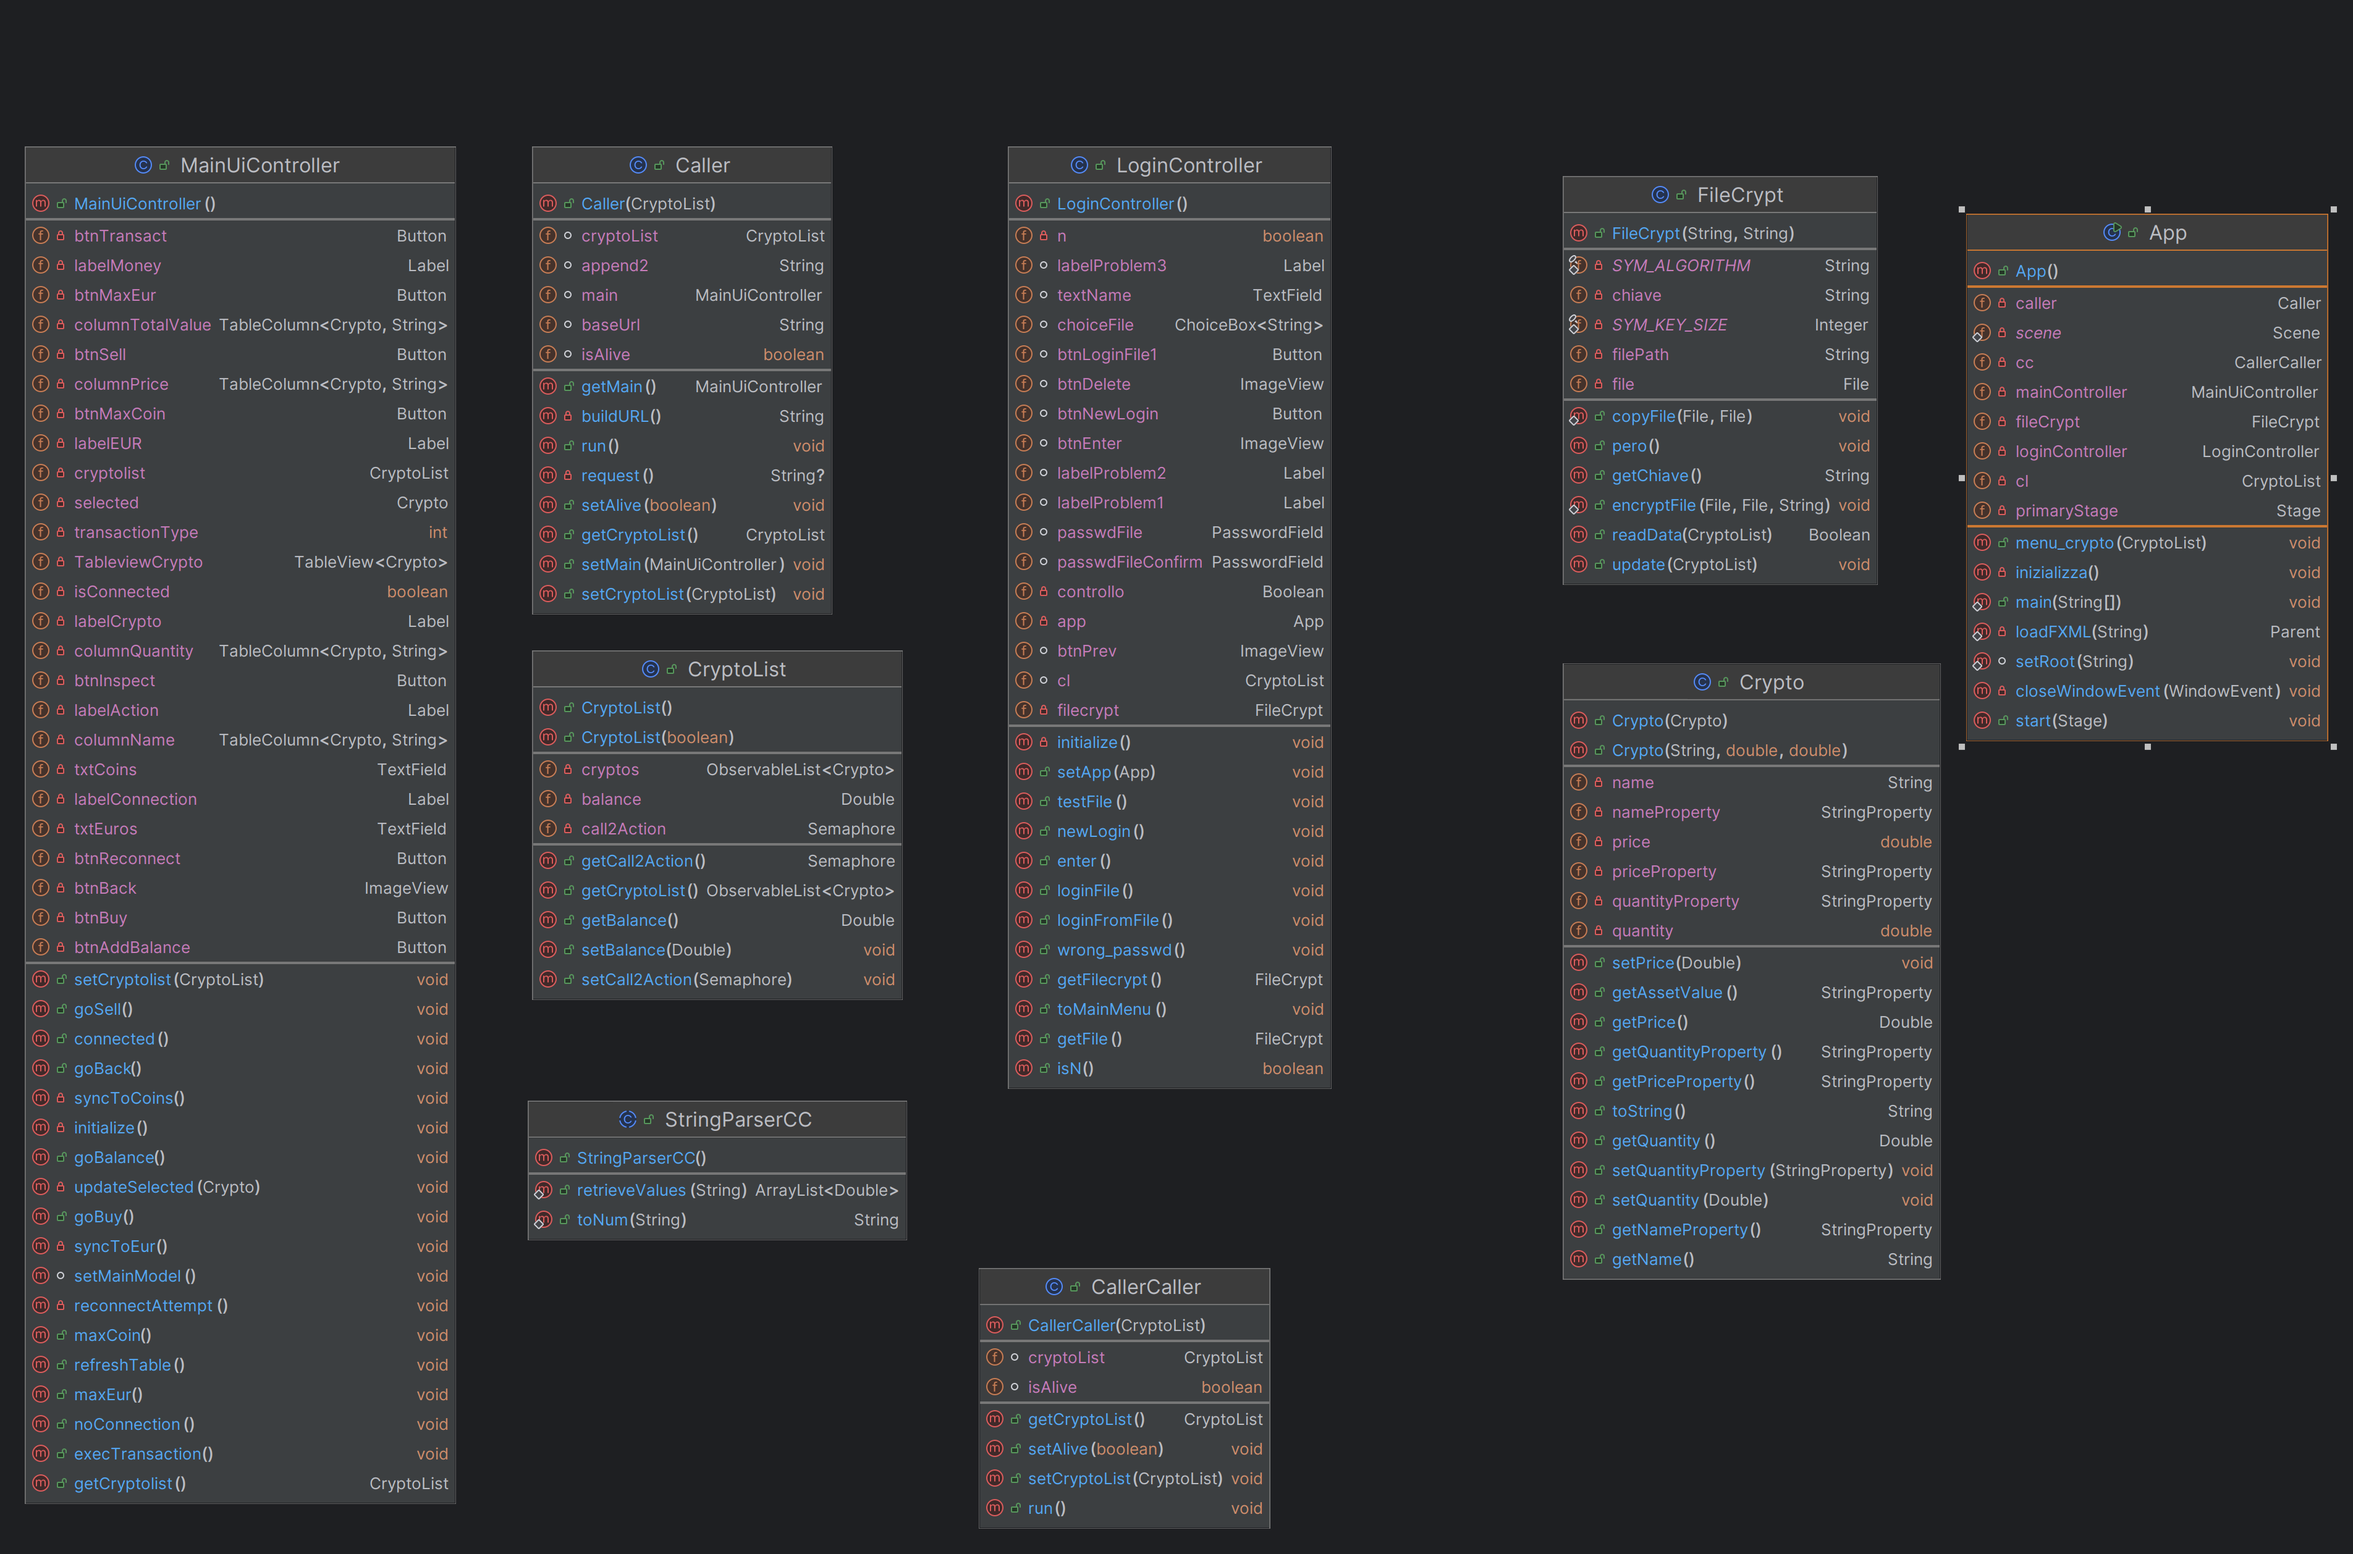
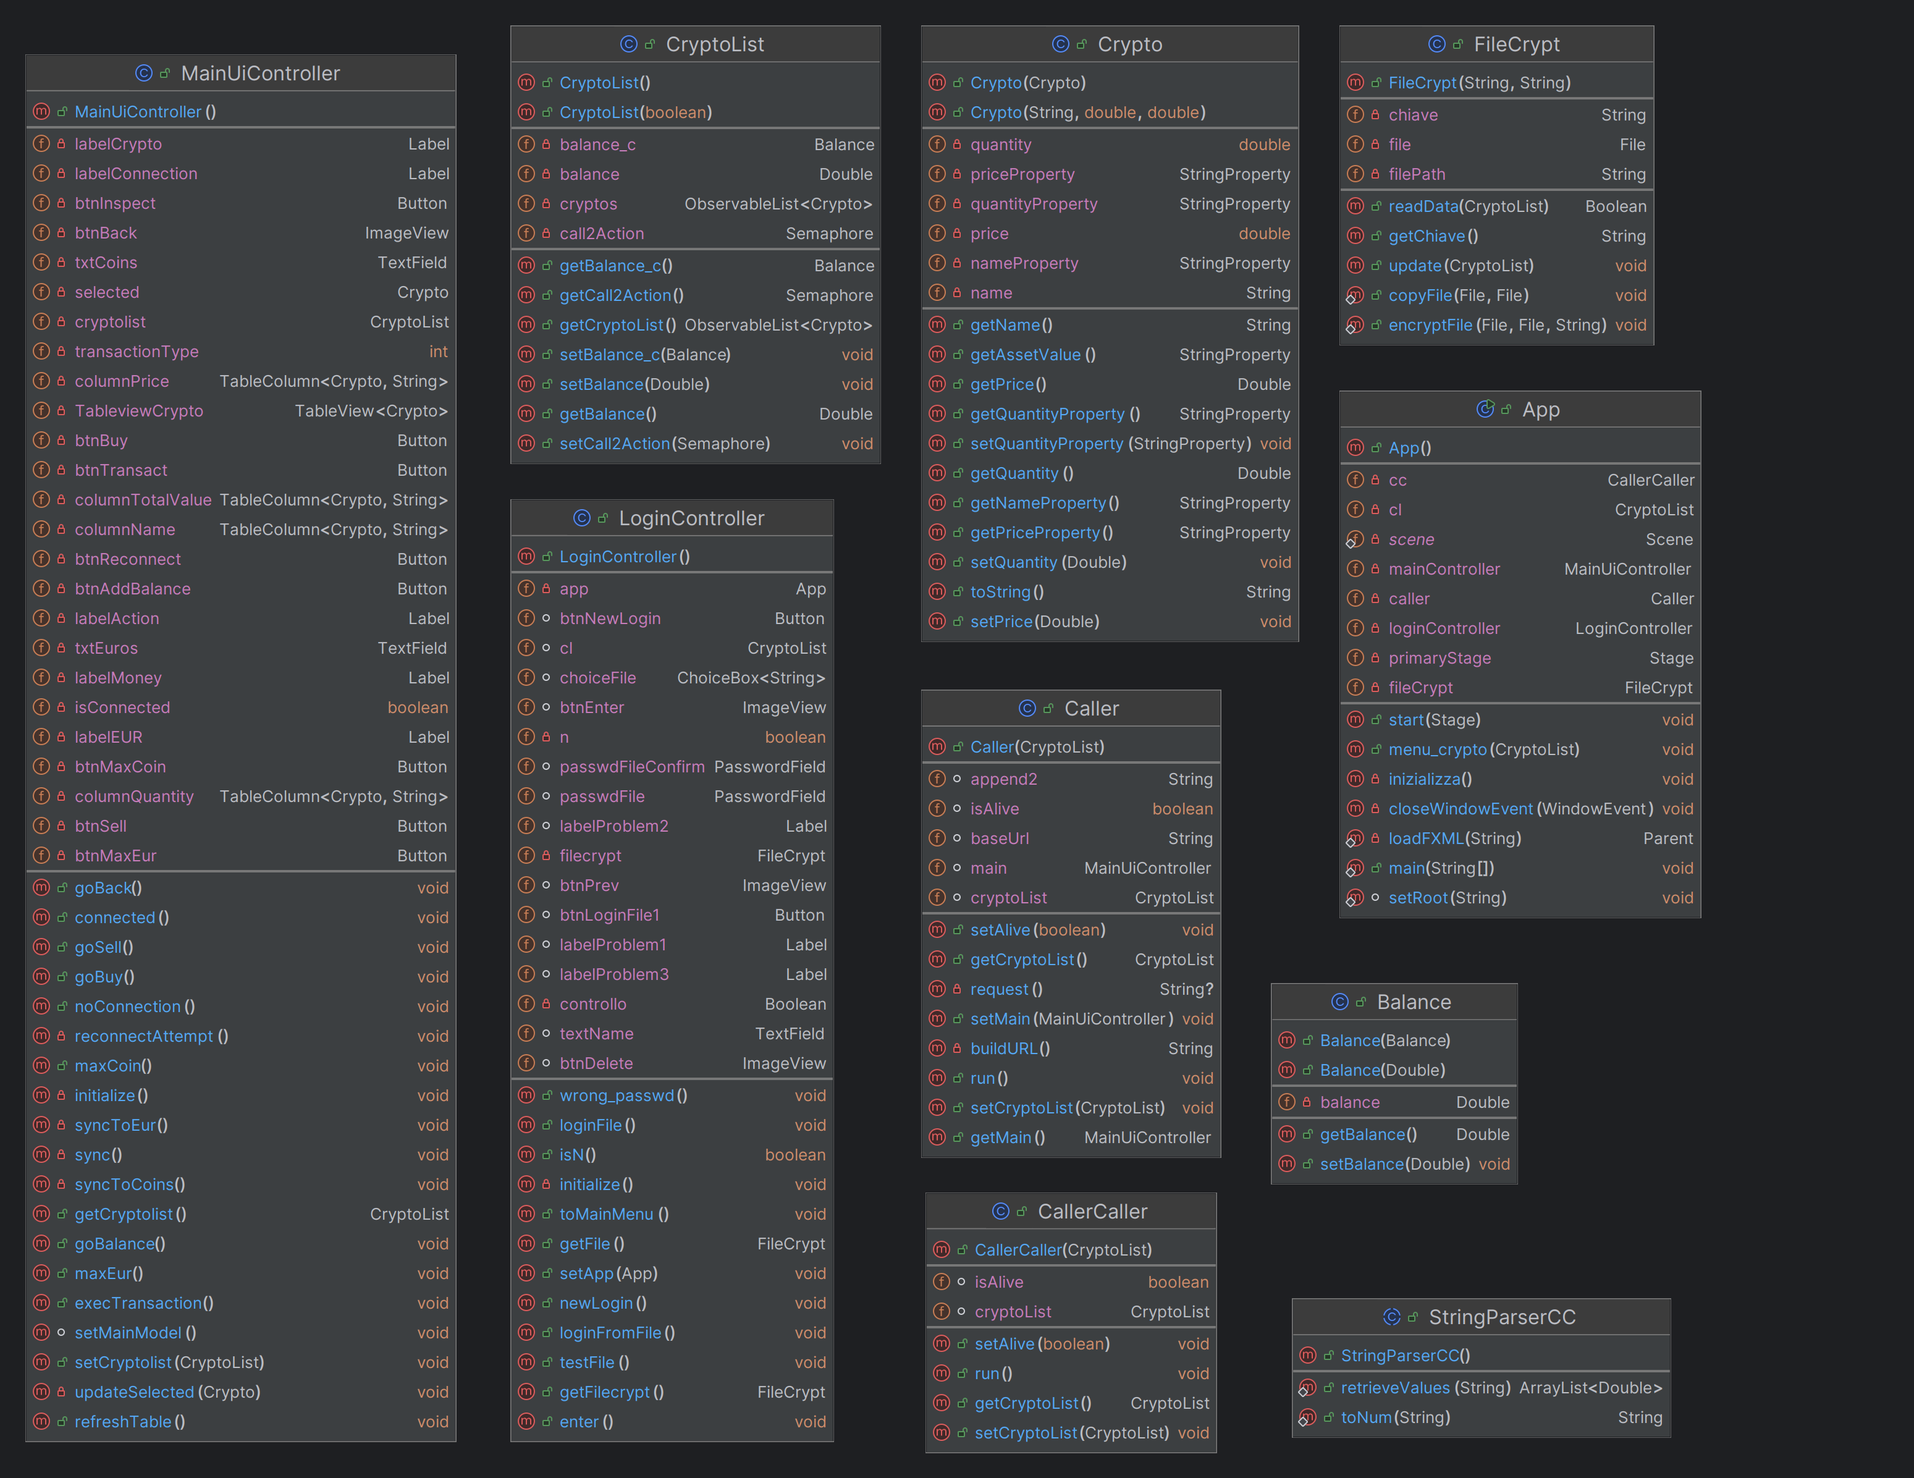
i can't take it anymore... i wanna sleep

diff --git a/Code/src/main/java/com/example/MainUiController.java b/Code/src/main/java/com/example/MainUiController.java
@@ -9,6 +9,8 @@ package com.example;
 import java.math.BigDecimal;
 import java.util.Optional;
 
+import com.example.Crypto.Crypto;
+import com.example.Crypto.CryptoList;
 import com.example.Threads.Caller;
 
 import javafx.collections.FXCollections;
@@ -322,7 +324,8 @@ public class MainUiController {
         columnPrice.setCellValueFactory(cellData -> cellData.getValue().getPriceProperty());
         columnQuantity.setCellValueFactory(cellData -> cellData.getValue().getQuantityProperty());
         columnTotalValue.setCellValueFactory(cellData -> cellData.getValue().getAssetValue());
-        labelMoney.setText("€"+getCryptolist().getBalance());
+        labelMoney.setText("€"+cryptolist.getBalance());
+        
     }
 
     public void refreshTable(){

diff --git a/Code/src/main/java/com/example/Threads/Caller.java b/Code/src/main/java/com/example/Threads/Caller.java
@@ -7,9 +7,9 @@ import java.net.ConnectException;
 import java.net.URI;
 import java.net.http.HttpClient;
 
-import com.example.CryptoList;
 import com.example.MainUiController;
 import com.example.StringParserCC;
+import com.example.Crypto.CryptoList;
 
 public class Caller extends Thread{
     String baseUrl="https://min-api.cryptocompare.com/data/pricemulti?fsyms=";
@@ -55,6 +55,7 @@ public class Caller extends Thread{
         this.cryptoList=list;
     }
 
+    //it builds the url using the cryptocurrencies id
     private String buildURL(){
         String url=baseUrl;
         for (int i = 0; i < cryptoList.getCryptoList().size(); i++) {

diff --git a/Code/src/main/java/com/example/FileCrypt.java b/Code/src/main/java/com/example/FileCrypt.java
@@ -38,6 +38,10 @@ import javax.crypto.SecretKeyFactory;
 import javax.crypto.spec.IvParameterSpec;
 import javax.crypto.spec.PBEKeySpec;
 import javax.crypto.spec.SecretKeySpec;
+
+import com.example.Crypto.Balance;
+import com.example.Crypto.Crypto;
+import com.example.Crypto.CryptoList;
 /**
  *
  * @author User

diff --git a/Code/src/main/java/com/example/Crypto/CryptoList.java b/Code/src/main/java/com/example/Crypto/CryptoList.java
@@ -3,9 +3,10 @@
  * To change this template file, choose Tools | Templates
  * and open the template in the editor.
  */
-package com.example;
+package com.example.Crypto;
 
 import java.util.concurrent.Semaphore;
+
 import javafx.collections.FXCollections;
 import javafx.collections.ObservableList;
 

diff --git a/Code/src/main/java/com/example/LoginController.java b/Code/src/main/java/com/example/LoginController.java
@@ -12,6 +12,8 @@ import javax.crypto.BadPaddingException;
 import javax.crypto.IllegalBlockSizeException;
 import javax.crypto.NoSuchPaddingException;
 
+import com.example.Crypto.CryptoList;
+
 import javafx.fxml.FXML;
 import javafx.scene.control.Alert;
 import javafx.scene.control.Button;

diff --git a/Code/src/main/java/com/example/Threads/CallerCaller.java b/Code/src/main/java/com/example/Threads/CallerCaller.java
@@ -3,7 +3,7 @@ package com.example.Threads;
 import java.net.HttpURLConnection;
 import java.net.URL;
 
-import com.example.CryptoList;
+import com.example.Crypto.CryptoList;
 
 //si lo so il nome non è il massimo ma lo trovavo simpatico
 public class CallerCaller extends Thread {

diff --git a/Code/src/main/java/com/example/App.java b/Code/src/main/java/com/example/App.java
@@ -23,6 +23,7 @@ import java.util.Optional;
 
 import javax.crypto.NoSuchPaddingException;
 
+import com.example.Crypto.CryptoList;
 import com.example.Threads.Caller;
 import com.example.Threads.CallerCaller;
 

diff --git a/Code/src/main/java/com/example/Crypto/Balance.java b/Code/src/main/java/com/example/Crypto/Balance.java
@@ -1,4 +1,4 @@
-package com.example;
+package com.example.Crypto;
 
 import java.io.Serializable;
 

diff --git a/Code/src/main/java/com/example/Crypto/Crypto.java b/Code/src/main/java/com/example/Crypto/Crypto.java
@@ -1,4 +1,4 @@
-package com.example;
+package com.example.Crypto;
 
 import java.io.Serializable;
 

diff --git a/README.md b/README.md
@@ -89,3 +89,27 @@ We were also limited to what, our API provider and other free tools avaiable, le
 We found some major limits in, expecially, the API calls.
 
 **Thanks for reading and enjoy the App.**
+
+# Techincal things
+
+## Sitography
+- [Icons](https://fontawesome.com/)
+- [Main logo](https://looka.com)
+- [Api](https://www.cryptocompare.com/)
+## Files meanings
+
+### Code/src/main/java
+- Caller: is the thread responsible of doing the api calls.
+- CallerCaller: is a thread that serves uniquely as a timer for caller.
+- App: is the entrypoint, where all important initializations are done.
+- Crypto: is the class describing cryptocurrencies
+- CryptoList: is the class containing the list of cryptoes, the balance and the semaphore used to activate Caller.
+- FileCrypt: is where al the magic of the files happens. Encryption, decription and despair. 
+- StringParserCC: it's an utility tailor made to parse strings.
+- LoginController: as the name implies it's the controller for LoginFXML.
+- MainUiControlle:as the name implies it's the controller for MainUiFXML.
+### Code/resources/com/example
+- Style/style.css: is our css file.
+- Images: it's where the images are.
+- Login.fxml: it's the fxml file for the login menu.
+- mainUI.fxml: it's the fxml file for the login menu.
